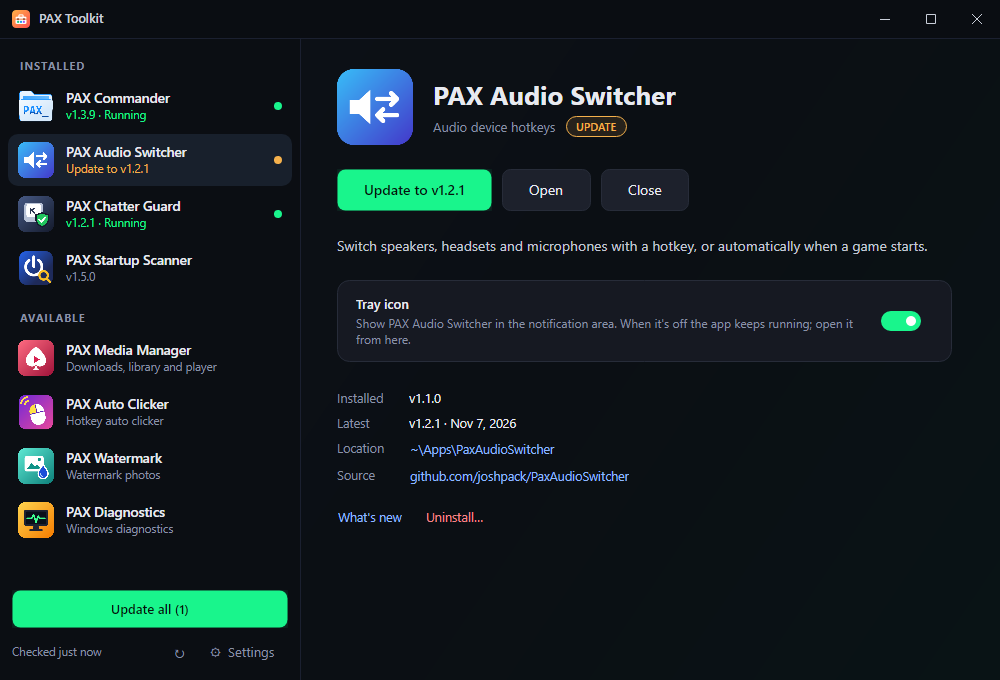
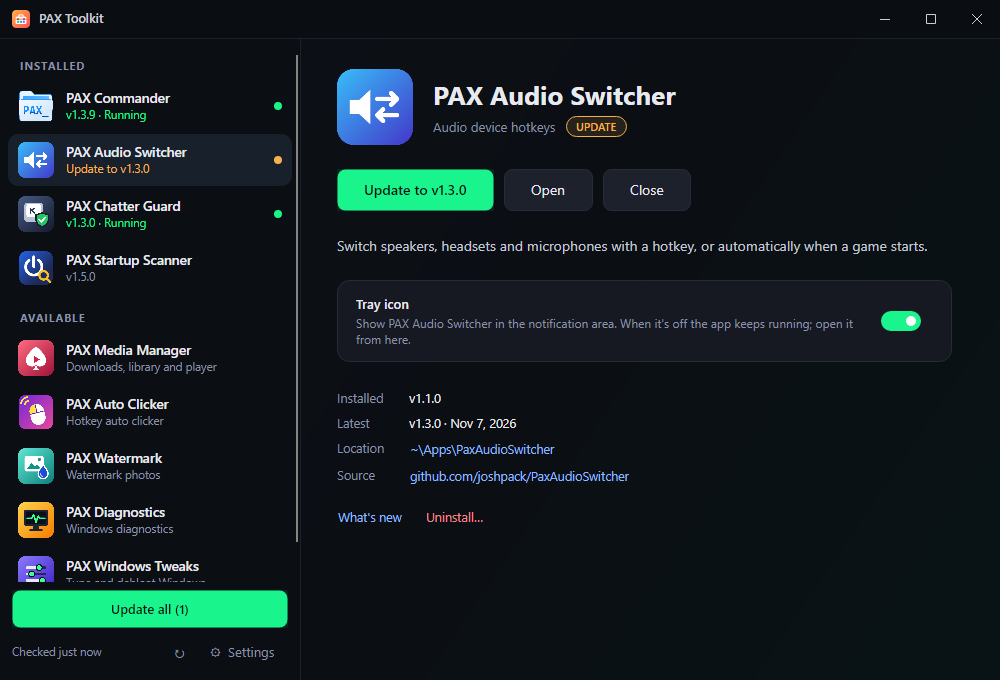
Add PAX Windows Tweaks to the catalog (1.1.2)

diff --git a/README.md b/README.md
@@ -30,6 +30,7 @@ One app for all the PAX apps. PAX Toolkit lists every PAX app on GitHub, install
 | [PAX Startup Scanner](https://github.com/joshpack/PaxStartupScanner) | Startup items and boot time (PowerShell, runs as admin) |
 | [PAX Watermark](https://github.com/joshpack/pax_watermark) | Watermark one photo or a whole folder |
 | [PAX Diagnostics](https://github.com/joshpack/Pax_Diagnostics) | System info, SFC/DISM repairs, CBS log filter |
+| [PAX Windows Tweaks](https://github.com/joshpack/PaxWindowsTweaks) | Tweaks with undo, debloat, winget installer, fixes, update modes, DNS |
 
 ## Supported systems
 
